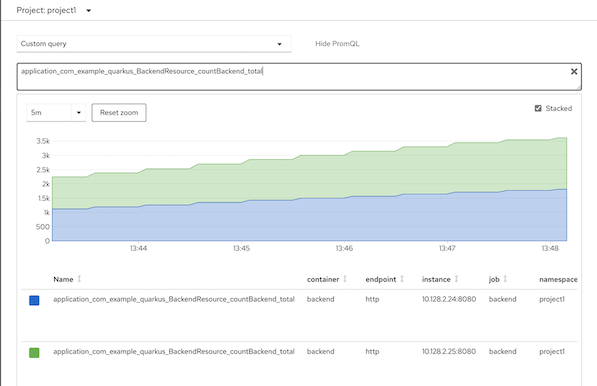
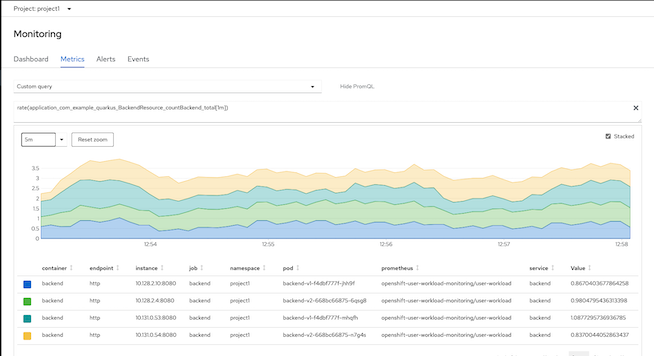
Update PromQL

diff --git a/application-metrics.md b/application-metrics.md
@@ -107,12 +107,20 @@
 
   - Application metrics 
     
-    - Request counted
+    - PromQL for query number of request for last 1 minute
+      
+      ```
+      rate(application_com_example_quarkus_BackendResource_countBackend_total[1m])
+      ```
 
       ![](images/dev-console-app-metrics-01.png)
 
-    - Concurrent requests
-    
+    - PromQL for query number of concurrent requests
+      
+      ```
+      application_com_example_quarkus_BackendResource_concurrentBackend_current
+      ```
+
       ![](images/dev-console-app-metrics-02.png)
 
 ## Custom Grafana Dashboard
@@ -208,6 +216,7 @@ Use Grafana Operator (Community Edition) to deploy Grafana and configure datasou
     -e DURATION=5m \
     -e RAMEDOWN=30s
     ```
+
   Remark: You need to configure frontend app to connect to backend app
 
   ```bash
